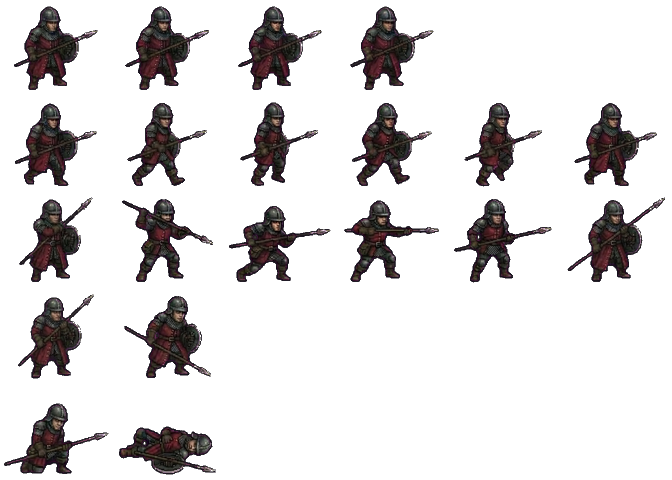
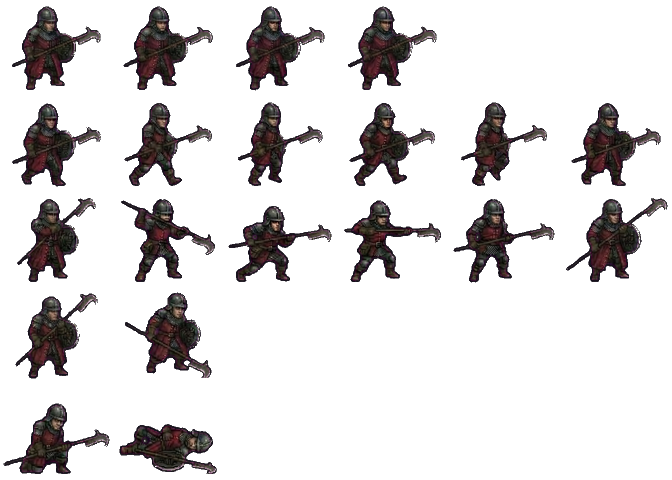
Art/UI: dredger, ash crawler, flagellant, enforcer sheets; footman hookbill
Gemini items SW-21..SW-25 (placeholders): painted frame sheets at
units/rogue/tallow_dredger, units/crawler/ash_crawler_painted,
units/rogue/mortuary_flagellant, units/warrior/bailiff_enforcer, and
units/warrior/castellan_footman replaced with the hookbill take (SW-25).
Mirrored to face right. Unit art keys are Build's change (PR7-65).

Claude-Session: https://claude.ai/code/session_01JD4WxupqfcwM94tcKTPs1a

diff --git a/games/emberwake/assets/units/warrior/castellan_footman/README.md b/games/emberwake/assets/units/warrior/castellan_footman/README.md
@@ -1,12 +1,11 @@
 # warrior/castellan_footman: the Castellan Footman's painted frame sheet (placeholder)
 
-Gemini Style 2 frame sheet (item SW-18, accepted by Art/UI 2026-11-21): red Watch coat, kettle helm, spear and round
-shield. Keyed, mirrored to face right (the stage mirrors it for enemies) and cut to the game's layout. A placeholder
-until the finals (decision "Placeholder-first assets").
+Gemini Style 2 frame sheet (items SW-18 and SW-25, accepted by Art/UI 2026-11-21): red Watch coat, kettle helm, watch
+hookbill and round shield. Keyed, mirrored to face right (the stage mirrors it for enemies) and cut to the game's
+layout. A placeholder until the finals (decision "Placeholder-first assets").
 
 - `sheet.png`: 672 x 480, one clip per row, frames left to right, each frame 112 x 96 (`clips.json` `frame`), feet on
   pixel row 93 (`foot`), facing 3/4 right.
-- Rows: `idle` 4, `walk` 6, `attack` 6 (spear thrust, impact on frame 2), `hurt` 2, `death` 2.
+- Rows: `idle` 4, `walk` 6, `attack` 6 (hookbill thrust, impact on frame 2), `hurt` 2, `death` 2.
 - `clips.json` marks it `painted: true` (SCREEN_CONTRACT_BATTLE 8.1 D5). The unit row still names
-  `warrior/1h_buckler` until Build points `castellan_footman` here. The data gives it a hookbill; the sheet shows a
-  spear, to match on the next take.
+  `warrior/1h_buckler` until Build points `castellan_footman` here.

diff --git a/games/emberwake/assets/units/crawler/ash_crawler_painted/README.md b/games/emberwake/assets/units/crawler/ash_crawler_painted/README.md
@@ -1,0 +1,12 @@
+# crawler/ash_crawler_painted: the Ash-Crawler's painted frame sheet (placeholder)
+
+Gemini Style 2 frame sheet (item SW-22, accepted by Art/UI 2026-11-21): a low quadruped with cracked soot-grey hide, clawed forelimbs, an eyeless head and a yellow-green throat gall. Keyed, mirrored to face right (the stage
+mirrors it for enemies) and cut to the game's layout. A placeholder until the finals (decision "Placeholder-first
+assets").
+
+- `sheet.png`: 672 x 480, one clip per row, frames left to right, each frame 112 x 96 (`clips.json` `frame`), feet on
+  pixel row 93 (`foot`), facing 3/4 right.
+- Rows: `idle` 4, `walk` 6, `attack` 6 (burrow lunge, snap, caustic retch, impact on frame 2), `hurt` 2, `death` 2.
+- `clips.json` marks it `painted: true` (SCREEN_CONTRACT_BATTLE 8.1 D5). The unit row `ash_crawler` still names `crawler/ash_crawler` until
+  Build points it here.
+- A new folder beside the old rig's `crawler/ash_crawler` (kept for its tests and seeds until the key moves).

diff --git a/games/emberwake/assets/units/rogue/tallow_dredger/README.md b/games/emberwake/assets/units/rogue/tallow_dredger/README.md
@@ -1,0 +1,11 @@
+# rogue/tallow_dredger: the Tallow Dredger's painted frame sheet (placeholder)
+
+Gemini Style 2 frame sheet (item SW-21, accepted by Art/UI 2026-11-21): oiled skinner's apron with copper-green stains, face scarf, goggles, boning knife and a grease pot at the hip. Keyed, mirrored to face right (the stage
+mirrors it for enemies) and cut to the game's layout. A placeholder until the finals (decision "Placeholder-first
+assets").
+
+- `sheet.png`: 672 x 480, one clip per row, frames left to right, each frame 112 x 96 (`clips.json` `frame`), feet on
+  pixel row 93 (`foot`), facing 3/4 right.
+- Rows: `idle` 4, `walk` 6, `attack` 6 (grease pot lob, then two knife slashes, impact on frame 2), `hurt` 2, `death` 2.
+- `clips.json` marks it `painted: true` (SCREEN_CONTRACT_BATTLE 8.1 D5). The unit row `tallow_dredger` still names `ranger/wenn_tallow` until
+  Build points it here.

diff --git a/games/emberwake/assets/units/rogue/mortuary_flagellant/README.md b/games/emberwake/assets/units/rogue/mortuary_flagellant/README.md
@@ -1,0 +1,11 @@
+# rogue/mortuary_flagellant: the Mortuary Flagellant's painted frame sheet (placeholder)
+
+Gemini Style 2 frame sheet (item SW-23, accepted by Art/UI 2026-11-21): a bare-chested penitent with an eyeless iron half-mask, black hood, black greaves and an iron scourge. Keyed, mirrored to face right (the stage
+mirrors it for enemies) and cut to the game's layout. A placeholder until the finals (decision "Placeholder-first
+assets").
+
+- `sheet.png`: 672 x 480, one clip per row, frames left to right, each frame 112 x 96 (`clips.json` `frame`), feet on
+  pixel row 93 (`foot`), facing 3/4 right.
+- Rows: `idle` 4, `walk` 6, `attack` 6 (scourge lash combo, impact on frame 2), `hurt` 2, `death` 2.
+- `clips.json` marks it `painted: true` (SCREEN_CONTRACT_BATTLE 8.1 D5). The unit row `mortuary_flagellant` still names `brawler/base` until
+  Build points it here.

diff --git a/games/emberwake/assets/units/warrior/bailiff_enforcer/README.md b/games/emberwake/assets/units/warrior/bailiff_enforcer/README.md
@@ -1,0 +1,11 @@
+# warrior/bailiff_enforcer: the Bailiff Enforcer's painted frame sheet (placeholder)
+
+Gemini Style 2 frame sheet (item SW-24, accepted by Art/UI 2026-11-21): red Castellan livery under a steel cuirass, closed barbute, shackle at the belt and a two-handed maul. Keyed, mirrored to face right (the stage
+mirrors it for enemies) and cut to the game's layout. A placeholder until the finals (decision "Placeholder-first
+assets").
+
+- `sheet.png`: 672 x 480, one clip per row, frames left to right, each frame 112 x 96 (`clips.json` `frame`), feet on
+  pixel row 93 (`foot`), facing 3/4 right.
+- Rows: `idle` 4, `walk` 6, `attack` 6 (overhead maul slam, impact on frame 2), `hurt` 2, `death` 2.
+- `clips.json` marks it `painted: true` (SCREEN_CONTRACT_BATTLE 8.1 D5). The unit row `bailiff_enforcer` still names `warrior/2h_hammer` until
+  Build points it here.
